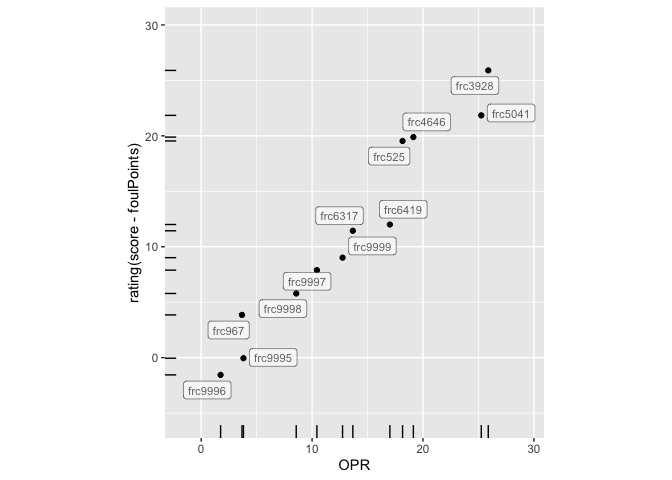
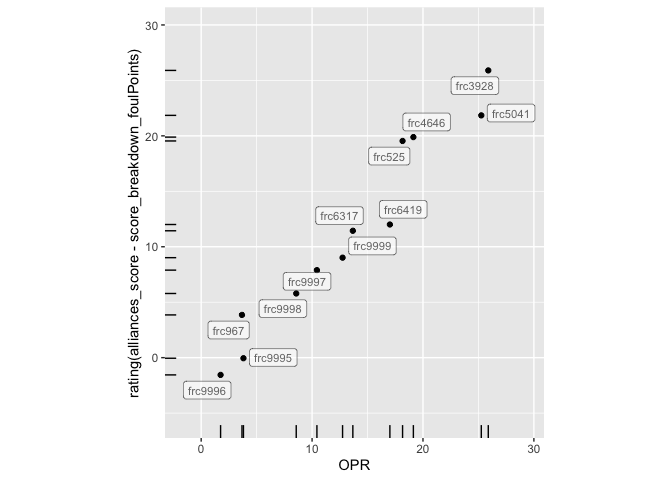
readme

Changed region(s): [[0.1875, 0.0938, 0.2188, 0.8438], [0.5938, 0.25, 0.6562, 0.2812], [0.5312, 0.5, 0.5938, 0.5312]]

diff --git a/README.md b/README.md
@@ -40,11 +40,59 @@ library(tba)
 
 # Team Neutrino has team code `frc3928` 
 get_records("team/frc3928")
-#> # A tibble: 1 × 11
-#>   city  country key     name        nickname postal_code rookie_year school_name
-#>   <chr> <chr>   <chr>   <chr>       <chr>    <chr>             <int> <chr>      
-#> 1 Ames  USA     frc3928 Iowa 4-H F… Team Ne… 50011              2012 4-H        
-#> # ℹ 3 more variables: state_prov <chr>, team_number <int>, website <chr>
+#> $address
+#> NULL
+#> 
+#> $city
+#> [1] "Ames"
+#> 
+#> $country
+#> [1] "USA"
+#> 
+#> $gmaps_place_id
+#> NULL
+#> 
+#> $gmaps_url
+#> NULL
+#> 
+#> $key
+#> [1] "frc3928"
+#> 
+#> $lat
+#> NULL
+#> 
+#> $lng
+#> NULL
+#> 
+#> $location_name
+#> NULL
+#> 
+#> $motto
+#> NULL
+#> 
+#> $name
+#> [1] "Iowa 4-H Foundation & Story County 4-H/Iowa State University College of Engineering/3M/Bayer Fund/John Deere/Terracon Foundation/Intuitive Foundation/Gene Haas Foundation/Danfoss/Collins Aerospace (RTX)/Chevron/Renewable Energy Group/Molex/Workiva, Inc/National Instruments/Emerson/CIT Signature Transportation/Kingland Systems/City of Ames Electric Services/Story County United Way/Interstate Battery - Ames/Ludicrous Creations/The Loft&4-H"
+#> 
+#> $nickname
+#> [1] "Team Neutrino"
+#> 
+#> $postal_code
+#> [1] "50011"
+#> 
+#> $rookie_year
+#> [1] 2012
+#> 
+#> $school_name
+#> [1] "4-H"
+#> 
+#> $state_prov
+#> [1] "Iowa"
+#> 
+#> $team_number
+#> [1] 3928
+#> 
+#> $website
+#> [1] "https://www.teamneutrino.org"
 
 # In the 2024 season, the team attended the following events:
 events <- get_records("team/frc3928/events/2024")
@@ -65,12 +113,10 @@ code `2024iawes`:
 library(dplyr)
 matches <- get_records("event/2024iawes/matches")
 count(matches, comp_level)
-#> # A tibble: 3 × 2
-#>   comp_level     n
-#>   <chr>      <int>
-#> 1 f              2
-#> 2 qm            22
-#> 3 sf             5
+#>   comp_level  n
+#> 1          f  2
+#> 2         qm 22
+#> 3         sf  5
 # 22 qualifying matches
 # 5 semi-finals
 # 2 finals
@@ -83,23 +129,23 @@ detailed scores of each team in each one of the matches:
 
 ``` r
 scores <- get_match_details(matches)
-head(scores %>% select(comp_level, match_number, set_number, alliance, team_key, score, ends_with("Points")))
+head(scores %>% select(comp_level, match_number, set_number, alliance, team_key, alliances_score, ends_with("Points")))
 #> # A tibble: 6 × 25
-#>   comp_level match_number set_number alliance team_key score adjustPoints
-#>   <chr>             <int>      <int> <chr>    <chr>    <int>        <int>
-#> 1 f                     1          1 blue     frc9998     38            0
-#> 2 f                     1          1 blue     frc6419     38            0
-#> 3 f                     1          1 blue     frc4646     38            0
-#> 4 f                     2          1 blue     frc9998     44            0
-#> 5 f                     2          1 blue     frc6419     44            0
-#> 6 f                     2          1 blue     frc4646     44            0
-#> # ℹ 18 more variables: autoAmpNotePoints <int>, autoLeavePoints <int>,
-#> #   autoPoints <int>, autoSpeakerNotePoints <int>, autoTotalNotePoints <int>,
-#> #   endGameHarmonyPoints <int>, endGameNoteInTrapPoints <int>,
-#> #   endGameOnStagePoints <int>, endGameParkPoints <int>,
-#> #   endGameSpotLightBonusPoints <int>, endGameTotalStagePoints <int>,
-#> #   foulPoints <int>, teleopAmpNotePoints <int>, teleopPoints <int>,
-#> #   teleopSpeakerNoteAmplifiedPoints <int>, teleopSpeakerNotePoints <int>, …
+#>   comp_level match_number set_number alliance team_key alliances_score
+#>   <chr>             <int>      <int> <chr>    <chr>              <int>
+#> 1 f                     1          1 blue     frc9998               38
+#> 2 f                     1          1 blue     frc6419               38
+#> 3 f                     1          1 blue     frc4646               38
+#> 4 f                     2          1 blue     frc9998               44
+#> 5 f                     2          1 blue     frc6419               44
+#> 6 f                     2          1 blue     frc4646               44
+#> # ℹ 19 more variables: score_breakdown_adjustPoints <int>,
+#> #   score_breakdown_autoAmpNotePoints <int>,
+#> #   score_breakdown_autoLeavePoints <int>, score_breakdown_autoPoints <int>,
+#> #   score_breakdown_autoSpeakerNotePoints <int>,
+#> #   score_breakdown_autoTotalNotePoints <int>,
+#> #   score_breakdown_endGameHarmonyPoints <int>,
+#> #   score_breakdown_endGameNoteInTrapPoints <int>, …
 ```
 
 ### Calculate a team’s contribution to an outcome
@@ -115,22 +161,22 @@ resulting coefficients for the ranking is the Offesnive Power Rating
 ``` r
 # ranking by OPR
 scores %>% filter(comp_level=="qm") %>%
-  get_ranking_by(score)
+  get_ranking_by(alliances_score)
 #> # A tibble: 12 × 3
-#>    team_key     n `rating(score)`
-#>    <chr>    <int>           <dbl>
-#>  1 frc3928     11           24.8 
-#>  2 frc5041     11           23.8 
-#>  3 frc4646     11           17.2 
-#>  4 frc525      11           16.5 
-#>  5 frc6419     11           15.4 
-#>  6 frc6317     11           14.3 
-#>  7 frc9999     11           13.7 
-#>  8 frc9997     11            9.06
-#>  9 frc9998     11            7.14
-#> 10 frc9996     11            2.86
-#> 11 frc967      11            2.58
-#> 12 frc9995     11            2.32
+#>    team_key     n `rating(alliances_score)`
+#>    <chr>    <int>                     <dbl>
+#>  1 frc3928     11                     24.8 
+#>  2 frc5041     11                     23.8 
+#>  3 frc4646     11                     17.2 
+#>  4 frc525      11                     16.5 
+#>  5 frc6419     11                     15.4 
+#>  6 frc6317     11                     14.3 
+#>  7 frc9999     11                     13.7 
+#>  8 frc9997     11                      9.06
+#>  9 frc9998     11                      7.14
+#> 10 frc9996     11                      2.86
+#> 11 frc967      11                      2.58
+#> 12 frc9995     11                      2.32
 ```
 
 It makes sense, to not include points from fouls (assuming that it is
@@ -138,17 +184,17 @@ hard to make another team foul one’s alliance):
 
 ``` r
 no_fouls <- scores %>% filter(comp_level == "qm") %>%
-  get_ranking_by(score - foulPoints)
+  get_ranking_by(alliances_score - score_breakdown_foulPoints)
 head(no_fouls)
 #> # A tibble: 6 × 3
-#>   team_key     n `rating(score - foulPoints)`
-#>   <chr>    <int>                        <dbl>
-#> 1 frc3928     11                         23.6
-#> 2 frc4646     11                         19.4
-#> 3 frc5041     11                         19.1
-#> 4 frc525      11                         17.5
-#> 5 frc6317     11                         12.7
-#> 6 frc6419     11                         11.9
+#>   team_key     n `rating(alliances_score - score_breakdown_foulPoints)`
+#>   <chr>    <int>                                                  <dbl>
+#> 1 frc3928     11                                                   23.6
+#> 2 frc4646     11                                                   19.4
+#> 3 frc5041     11                                                   19.1
+#> 4 frc525      11                                                   17.5
+#> 5 frc6317     11                                                   12.7
+#> 6 frc6419     11                                                   11.9
 ```
 
 Most of the time, the resulting ranking should be quite similar, but
@@ -162,22 +208,22 @@ is quite similar.
 
 ``` r
 scores %>% filter(comp_level=="qm") %>%
-  get_ranking_by(score-foulPoints)
+  get_ranking_by(alliances_score-score_breakdown_foulPoints)
 #> # A tibble: 12 × 3
-#>    team_key     n `rating(score - foulPoints)`
-#>    <chr>    <int>                        <dbl>
-#>  1 frc3928     11                       23.6  
-#>  2 frc4646     11                       19.4  
-#>  3 frc5041     11                       19.1  
-#>  4 frc525      11                       17.5  
-#>  5 frc6317     11                       12.7  
-#>  6 frc6419     11                       11.9  
-#>  7 frc9999     11                       10.7  
-#>  8 frc9997     11                        6.37 
-#>  9 frc9998     11                        5.96 
-#> 10 frc967      11                        2.44 
-#> 11 frc9996     11                       -0.409
-#> 12 frc9995     11                       -2.54
+#>    team_key     n `rating(alliances_score - score_breakdown_foulPoints)`
+#>    <chr>    <int>                                                  <dbl>
+#>  1 frc3928     11                                                 23.6  
+#>  2 frc4646     11                                                 19.4  
+#>  3 frc5041     11                                                 19.1  
+#>  4 frc525      11                                                 17.5  
+#>  5 frc6317     11                                                 12.7  
+#>  6 frc6419     11                                                 11.9  
+#>  7 frc9999     11                                                 10.7  
+#>  8 frc9997     11                                                  6.37 
+#>  9 frc9998     11                                                  5.96 
+#> 10 frc967      11                                                  2.44 
+#> 11 frc9996     11                                                 -0.409
+#> 12 frc9995     11                                                 -2.54
 ```
 
 ### Comparing Multiple Outcomes
@@ -192,8 +238,8 @@ library(tidyverse)
 library(ggplot2)
 
 # combine the OPR with the ranking not including fouls:
-all_points <- scores %>% get_ranking_by(score, score-foulPoints)
-all_points %>% ggplot(aes(x = `rating(score)`, y = `rating(score - foulPoints)`)) + 
+all_points <- scores %>% get_ranking_by(alliances_score, alliances_score-score_breakdown_foulPoints)
+all_points %>% ggplot(aes(x = `rating(alliances_score)`, y = `rating(alliances_score - score_breakdown_foulPoints)`)) + 
   geom_point() + xlab("OPR") + 
   ggrepel::geom_label_repel(aes(label = team_key), size=3, alpha = 0.6) +
   geom_rug(length = unit(0.03, "npc")) +
@@ -224,29 +270,30 @@ a team’s ability to provoke fouls from the opponents.
 
 ``` r
 scores %>% filter(comp_level=="qm") %>%
-  get_ranking_by(2*foulCount+5*techFoulCount) 
+  get_ranking_by(2*score_breakdown_foulCount+5*score_breakdown_techFoulCount) 
 #> # A tibble: 12 × 3
-#>    team_key     n `rating(2 * foulCount + 5 * techFoulCount)`
-#>    <chr>    <int>                                       <dbl>
-#>  1 frc9998     11                                      6.06  
-#>  2 frc9997     11                                      4.91  
-#>  3 frc6317     11                                      2.60  
-#>  4 frc525      11                                      2.38  
-#>  5 frc967      11                                      2.25  
-#>  6 frc9995     11                                      2.22  
-#>  7 frc3928     11                                      1.86  
-#>  8 frc9999     11                                      1.18  
-#>  9 frc4646     11                                      0.917 
-#> 10 frc9996     11                                      0.146 
-#> 11 frc6419     11                                      0.0238
-#> 12 frc5041     11                                     -1.62
+#>    team_key     n `rating(2 * score_breakdown_foulCount + ...)`
+#>    <chr>    <int>                                         <dbl>
+#>  1 frc9998     11                                        6.06  
+#>  2 frc9997     11                                        4.91  
+#>  3 frc6317     11                                        2.60  
+#>  4 frc525      11                                        2.38  
+#>  5 frc967      11                                        2.25  
+#>  6 frc9995     11                                        2.22  
+#>  7 frc3928     11                                        1.86  
+#>  8 frc9999     11                                        1.18  
+#>  9 frc4646     11                                        0.917 
+#> 10 frc9996     11                                        0.146 
+#> 11 frc6419     11                                        0.0238
+#> 12 frc5041     11                                       -1.62
 ```
 
 ### Best at categories
 
 ``` r
+names(scores) <- gsub("score_breakdown_", "", names(scores))
 detailed <- scores %>% filter(comp_level=="qm") %>%
-  get_ranking_by(score, score - foulPoints, autoPoints, teleopPoints, -1*(2*foulCount+5*techFoulCount)) 
+  get_ranking_by(alliances_score, alliances_score - foulPoints, autoPoints, teleopPoints, -1*(2*foulCount+5*techFoulCount)) 
 
 # add the tba rating to the mix:
 tba_rating <- tba_ranking("2024iawes")
